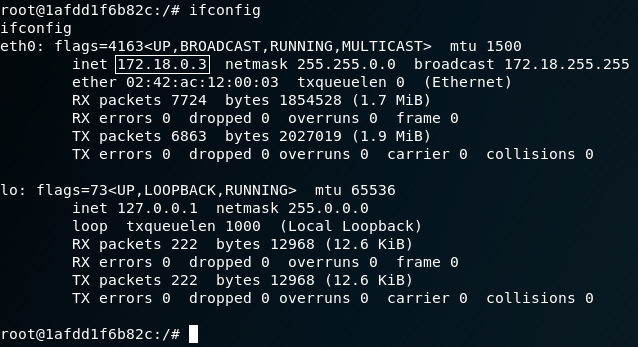
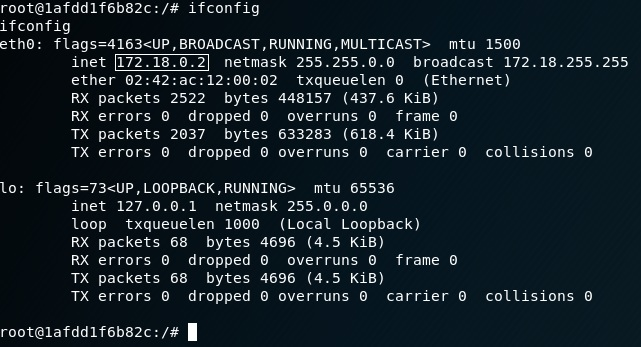
Updated hackinos-1 second-half

diff --git a/hackinos-1.md b/hackinos-1.md
@@ -65,7 +65,7 @@ for ($i = 1; $i <= 100; $i++) {
 * Note: Instead of the `--sc 200` option, you can use `--hc 404` (which means to show only responses without the specified code of 404, i.e. Not Found) to get the same result. Also, remove the `--sc/--hc` option if you want to see the entire bruteforce results log (i.e. without filters).
 * Upon loading `http://localhost:8000/uploads/ca61202c13182f5fc4021e1b42259c79.png`, I was able to see the image `index.png` file that I uploaded earlier on.
 * Since we have confirmed our ability to upload and open an image file onto the web server, we can then upload a malicious file and open it to gain a reverse shell on the web server.
-* Go to `usr/share/webshells/php` and open `php-reverse-shell.php`. Change the values at lines 49 and 50, which is the IP address (`$ip`) and port number (`$port`) respectively of our Kali VM. I will be using port 3000 here.
+* Go to `/usr/share/webshells/php` and open `php-reverse-shell.php`. Change the values at lines 49 and 50, which is the IP address (`$ip`) and port number (`$port`) respectively of our Kali VM. I will be using port 3000 here.
 * However, recall that our file type is restricted to only .png or .gif. One way that servers prevent shells from being uploaded is to restrict the file types of files that users can upload. Nonetheless, we can bypass this limitation by adding the text `GIF89a` or `GIF98` to the start of php-reverse-shell.php.
 * Note: Adding the allowed file extensions to our malicious file, e.g. `malicious.php.png` or `malicious.php.gif` does not work because the file type check is done by examining the file MIME (way to identify files according to nature and format) type, and not by splicing the entire string to get the file type.
 * After adding the text, upload `php-reverse-shell.php` (we have now bypassed the file extension filter) and then rinse and repeat using `wfuzz` as done previously to obtain the file name of our shell code: `wfuzz -w MD5HashesList.txt --sc 200 http://localhost:8000/uploads/FUZZ.php`. Mine is `6263d635867b1da16ef04b5d419a6fed`.
@@ -74,7 +74,7 @@ for ($i = 1; $i <= 100; $i++) {
 * After running that command, we now have a reverse shell on the vulnerable web server, as user `www-data`:
 ![](/screenshots/hackinos-1/successfulReverseShell.jpg)
 * Interestingly on some occasions, after we terminate the nc connection, the malicious file appears to no longer be on the web server anymore. We have to re-upload our malicious file to the web server.
-* Heading to `/var/www/html`, open `wp-config.php` and we find that the MySQL login credentials are `wordpress:wordpress`. *We will not make use of this information for this walkthrough at this iteration - to consider how we can use this for privilege escalation in future*.
+* Heading to `/var/www/html`, open `wp-config.php` and we find that the MySQL login credentials are `wordpress:wordpress`. We are not exactly sure if we need this later, but this is one of the pieces of information that I take note once I get access, just in case we are stuck later on (and who knows when it might come in handy).
 * Next, we will have to find a way for privilege escalation, using a binary with the setuid bit enabled. Run `find / -user root -perm -4000 -print 2>/dev/null`, just like in mr-robot-1:
 ![](/screenshots/hackinos-1/suidExecutables.jpg)
 * Amongst these binaries, we will use `/usr/bin/tail` to escalate our privileges: `tail -c1G /etc/shadow`, where `tail` allows us to output the final parts of a file:
@@ -89,15 +89,50 @@ for ($i = 1; $i <= 100; $i++) {
 ![](/screenshots/hackinos-1/johnRerun.jpg)
 * Note: If you want to re-run the command to observe the process again, go to `.john` and delete `john.pot`.
 * Note: If you want to view the password again without repeating the above process, execute `john --show decryptThisPassword.txt` (replacing the last part with your file name).
-* Now that we have our password, we will spawn our interactive shell with `python -c 'import pty; pty.spawn("/bin/bash")'`, then run `su`, entering the password `john`.
+* Now that we have our password, we will spawn our interactive shell with `python -c 'import pty; pty.spawn("/bin/bash")'`, then run `su` and enter the password `john`.
 * Next, we head to `/root`, and find that there is a file `flag`. However, that file only reveals to us a cryptic message, instead of the actual flag (I think?):
 ![](/screenshots/hackinos-1/flagInitial.jpg)
 * We have already gotten root access, but the flag still eludes us: we will have to find the flag elsewhere.
 * Opening up the other files on `/root` directory, the file `.port` holds another cryptic message as well. Have not much of an idea what the `7*` means as well.
+* At this point I felt pretty much stuck.
 * I went back to the login page of the vulnerable VM (that we had encountered initially), and checked for the username `hummingbirdscyber` against the `/etc/shadow` file, and did not find the username on the list. It seems like the username belongs to an account on another service of the vulnerable VM.
-* Running `ipconfig` on our vulnerable VM shows that the internal IP address is `172.18.0.3`:
+* It seems like there might be a network running within the vulnerable VM, given the hints provided in /root and user `hummingbirdscyber` not being found. Moreover, examining our very first login screenshot, there were 3 tabs under the `Active Network Connections`. Thus far, we would have expected to see only 1 tab - `Wired connection 1 (default)`.
+* Running `ipconfig` on our vulnerable VM shows that the internal IP address is `172.18.0.2`:
 ![](/screenshots/hackinos-1/vulnerableVMNetwork.jpg)
+* I tried to run `nmap` to find out the other live hosts on the network but it was not found.
+* Remembering that we had a set of MySQL credentials previously, I ran a `ping` request to find out if we can get an IP address of it: `ping -c 1 db`:
+![](/screenshots/hackinos-1/pingDB.jpg)
+* Note `-c 1` ensures that the ICMP requests would stop after receiving 1 reply, instead of being sent indefinitely.
+* The `ping` request resulted in a packet being successfully received - it turns out that the database has its own IP address, which is `172.18.0.3`.
+* To log in into the MySQL database, run `mysql -h 172.18.0.3 -u wordpress -pwordpress`:
+![](/screenshots/hackinos-1/mySQLLogin.jpg)
+* Note: There is no whitespace between `-p` and `wordpress` (the password itself) as per stated in the `man` page. Adding the whitespace will result in MySQL prompting for one immediately even though it was already included in the command.
+* Note: While it is required that there is no whitespace for the password, having a whitespace (or otherwise) between `-u` and `wordpress` (the username itself) does not affect the login process, though the `man` page stated that there should be a whitespace.
+* If you see `MySQL [(wordpress)]>` after logging in, you can skip the next step.
+* After logging in, we find that we see `none` that is part of `MySQL [(none)]>`. This means that we are currently not looking at any databases in particular. Run `show databases;` to find out what databases there are, and then `use wordpress;` to switch to the WordPress database:
+![](/screenshots/hackinos-1/mySQLChangeDatabase.jpg)
+* Next, we want to see what tables there are within the database, using `show tables;`:
+![](/screenshots/hackinos-1/mySQLTables.jpg)
+* The very first entry on the top, `host_ssh_cred` stands out from the rest of the tables. Run `select * from host_ssh_cred;` to see what is within the table:
+![](/screenshots/hackinos-1/mySQLTablehostsshcred.jpg)
+* We are given the password `e10adc3949ba59abbe56e057f20f883e` for the username `hummingbirdscyber`. The password is likely to be a MD5 hash based on `hash-identifier`.
+* Using an online password hash cracker, we find that the password is `123456`.
+* The `hummingbirdscyber:123456` set of credentials will be used for our SSH login, since the table name suggests that it is the credentials to the host SSH: `ssh hummingbirdscyber@10.0.2.6`:
+![](/screenshots/hackinos-1/sshLogin.jpg)
+* At this point in time, I found out that there was more than 1 way to escalate our privileges - I will be going through both of them below:
 
+# SetUID Binary for Privilege Escalation #
+* I ran the command `find / -user root -perm -4000 -print 2>/dev/null` to find the list of setuid binaries and to see if we could possibly use any of them for privilege escalation:
+![](/screenshots/hackinos-1/setuidBinaries.jpg)
+* None of the binaries from the list really stood out to me but the very first one did: `/home/hummingbirdscyber/Desktop/a.out`.
+* I ran the binary file and found that our privileges were temporarily escalated, `root` got printed, and then we were back to being user `hummingbirdscyber`. When `root` was printed, `whoami` was presumably executed.
+* This was the part where I learnt: running `$PATH` showed us that the first place where files would be searched for execution was in `/home/hummingbirdscyber/bin`:
+![](/screenshots/hackinos-1/pathVariable.jpg)
+* This directory did not yet existed, so let us create it using `mkdir`.
+* After doing so, we will create our malicious file called `whoami` (which will give us our root shell), which contains a one-liner `/bin/sh` (or `/bin/bash`).
+* Our version of `whoami` will be executed by `a.out`, instead of the standard `whoami`.
+
+# Docker Image for Privilege Escalation #
 * To-be-continued...
 
 # To-be-added subsequently #
